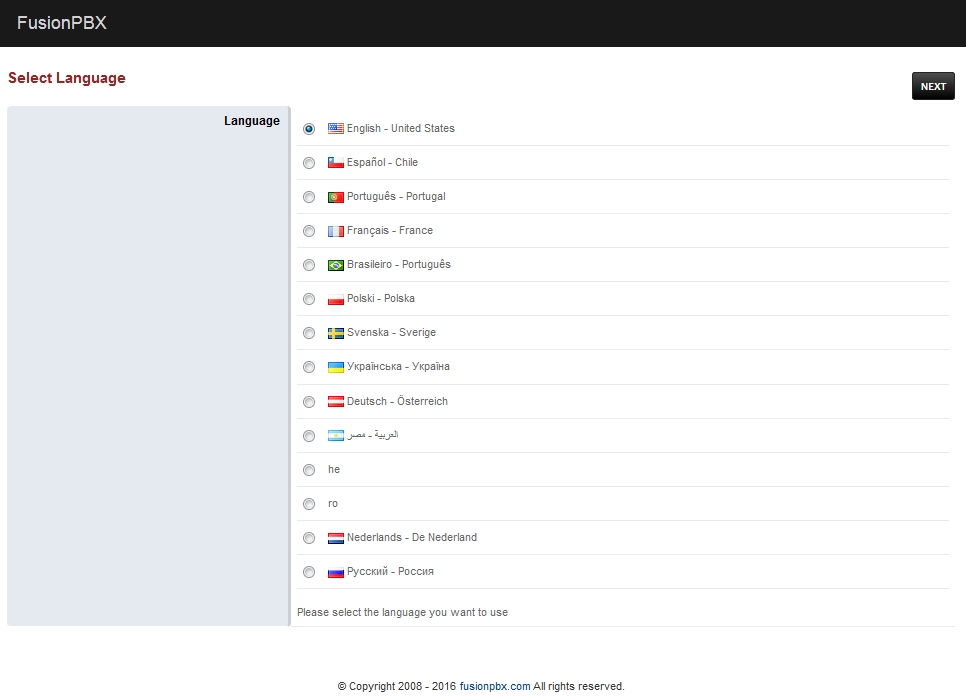
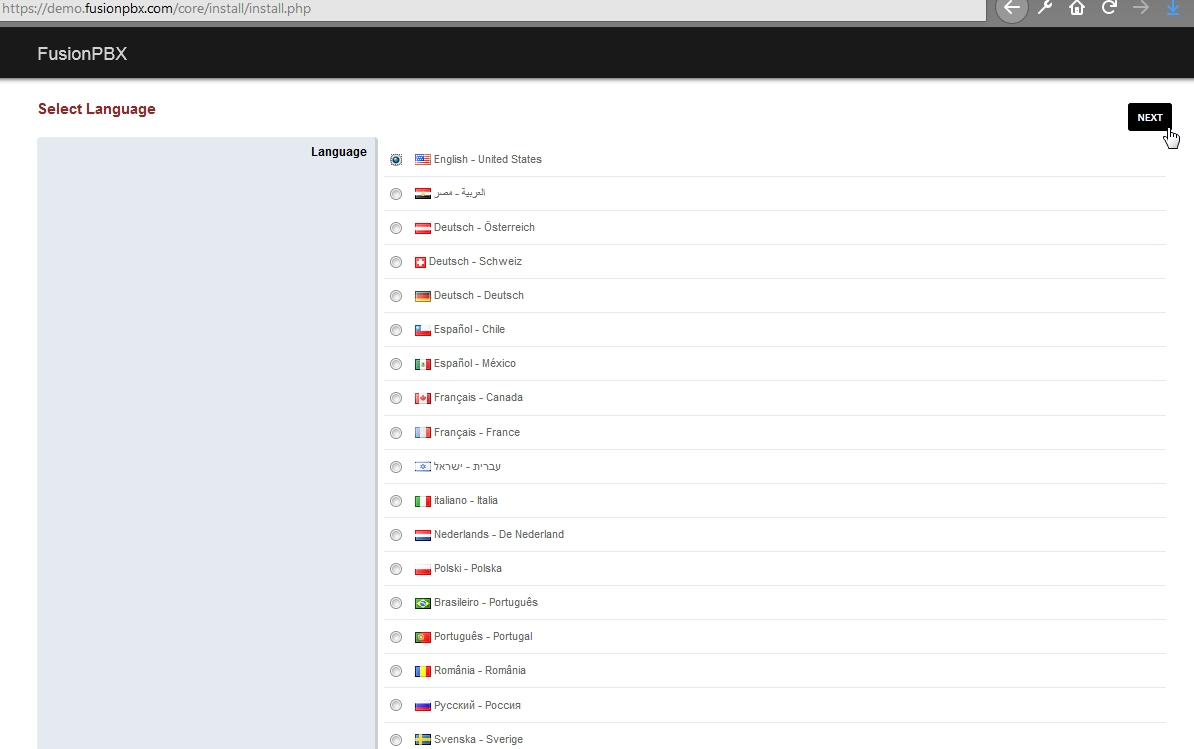
Password Reset updates (#105)
* images add

* Update password_reset.rst

* Update password_reset.rst

* Update password_reset.rst

* Update password_reset.rst

* update content, fix typo

Changed region(s): [[0.0, 0.0, 1.0, 1.0]]

diff --git a/source/additional_information/password_reset.rst b/source/additional_information/password_reset.rst
@@ -1,11 +1,101 @@
-##############
-Password Reset
-##############
+#######################
+Current Password Reset
+#######################
 
 
-The steps below are outdated but useful for older installations. `Click here for the new youtube video on password recovery. <https://youtu.be/YrlfscQ_3ew>`_ 
+ `Click here for the new youtube video on password recovery. <https://youtu.be/YrlfscQ_3ew>`_ 
 
-| Here some rough steps to change the password of the database. The password can only be changed and not recovered.
+The current method to changing the superadmin password is actually to make a new superadmin user name and password.
+
+.. note::
+       In older installations of FusionPBX config.php is located in /var/www/fusionpbx/resources/
+
+1. Move the config.php file temporarily.
+
+::
+
+ cd /etc/fusionpbx
+ mv config.php config1.php
+
+|
+2. Go to the FusionPBX install login page.  This will put FusionPBX into a recovery mode.  Choose the language for your region and **click next.**
+
+.. image:: ../_static/images/install_lang_new.jpg
+        :scale: 85%
+|
+
+
+3. Make sure FreeSWITCH is running.  If it is, the fields will be populated like they are in the image below.  The paths will vary depending on operating system and method of FreeSWITCH installation.  **Click next**
+
+
+.. image:: ../_static/images/fusionpbx_detect_freeswitch.jpg
+        :scale: 85%
+
+
+
+4.  In this step, you create what you want for the new superadmin user and password.  It has to be a user and password that **does not already exist.**
+
+
+.. image:: ../_static/images/fusionpbx_password_recovery.jpg
+        :scale: 85%
+
+
+5. Database Host, Database Port, Database name should be pre filled.  To provide the Database Username and Database Password you will have to locate those in the config.php file that we moved eariler. The code block below shows an easy way to retrieve the database password. Once those are filled in click **next.**
+
+
+::
+ 
+ cd /etc/fusionpbx
+ cat config1.php | grep password
+        $db_password = 'databasepasswordfromconfig.php';
+
+
+
+.. image:: ../_static/images/fusionpbx_database_configuration.jpg
+        :scale: 85%
+
+
+
+6. You should have a new config.php file in the /etc/fusionpbx/  directory.  Proceed to login to with the new superadmin user name and password.
+
+
+
+
+
+
+
+
+
+
+
+
+
+
+
+
+
+
+|
+
+-----------------------------------------------------
+
+|
+
+
+
+|
+
+|
+
+
+|
+
+**Old Password Reset**
+^^^^^^^^^^^^^^^^^^^^^^
+
+
+
+| The steps below are outdated but useful for older installations up to version 4.0. Here are some rough steps to change the password of the database. The password can only be changed and not recovered.
 
 |
 
